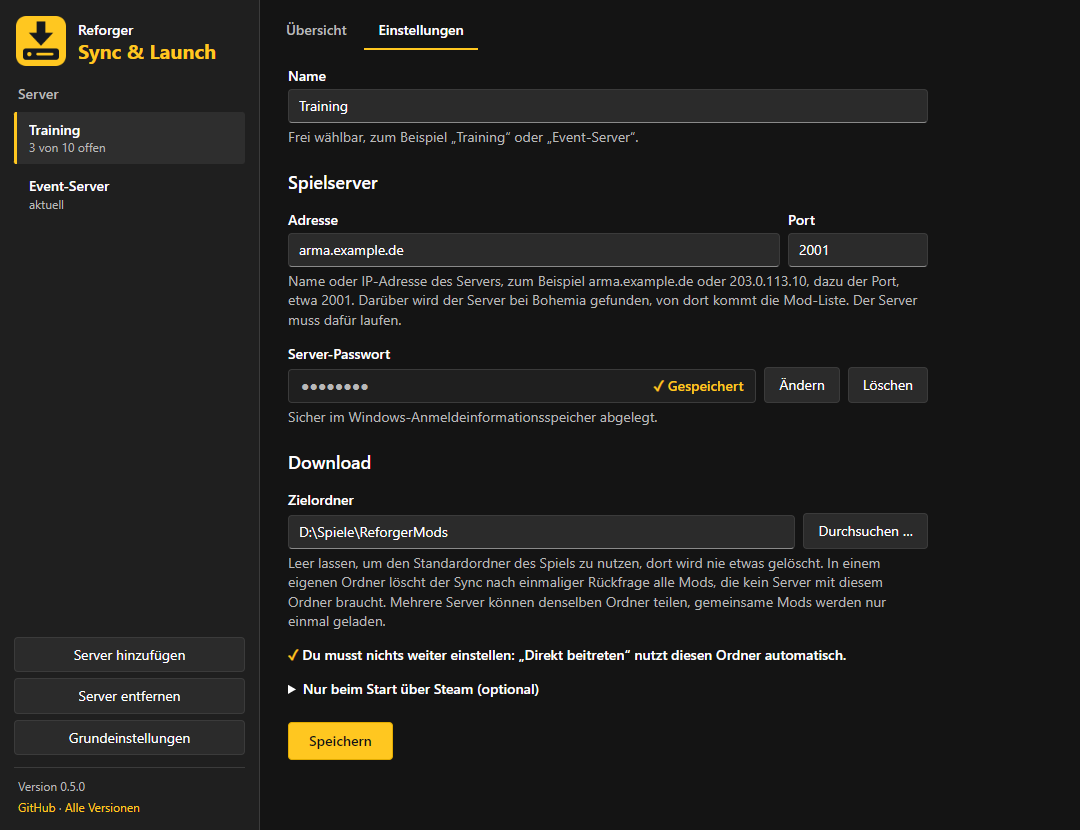
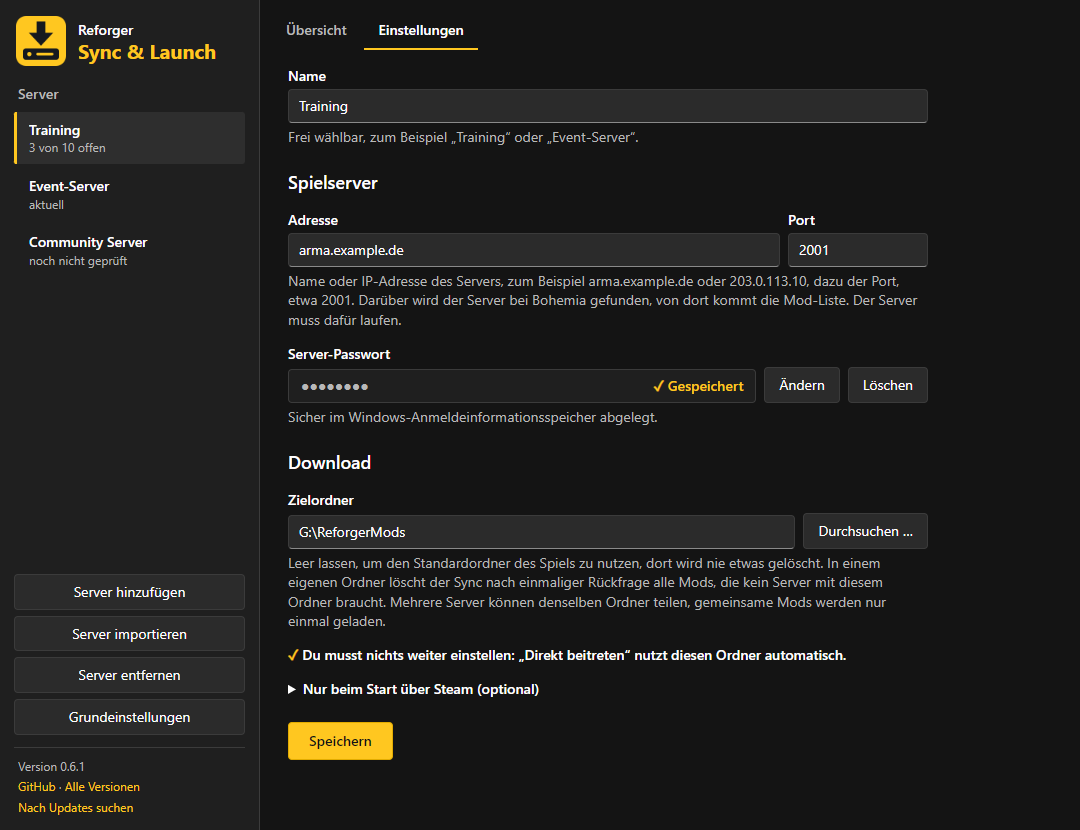
Doku: Screenshots mit Version 0.6.1, Bild zum Update-Hinweis; Übersicht ohne Trenner am Ende, wenn noch keine Liste geholt ist

diff --git a/app/ui/src/main.ts b/app/ui/src/main.ts
@@ -252,7 +252,8 @@ function renderOverview() {
   ui.title.textContent = displayName(profile);
   const address = combinedAddress(profile.draft) ?? "";
   const dir = profile.draft.downloadDir.trim() || "Standardordner des Spiels";
-  ui.hint.textContent = `Adresse: ${address}  ·  Zielordner: ${dir}  ·  ${profile.stand}`;
+  // Ohne geholte Liste gibt es keinen Stand, dann auch keinen Trenner am Ende.
+  ui.hint.textContent = [`Adresse: ${address}`, `Zielordner: ${dir}`, profile.stand].filter((part) => part.trim()).join("  ·  ");
   ui.summary.textContent = profile.summary;
   ui.sync.classList.toggle("attention", (profile.overview?.open ?? 0) > 0);
   ui.progress.style.width = `${Math.min(100, (profile.progressDone / profile.progressTotal) * 100)}%`;

diff --git a/README.md b/README.md
@@ -15,6 +15,7 @@ Beim Beitritt zu einem Server lädt Arma Reforger fehlende Mods erst dann, und d
 - **Direkt beitreten:** Startet das Spiel und verbindet dich mit dem Server.
 - **Mehrere Server verwalten:** Jeder Server hat seine eigene Adresse, sein Passwort und seinen Zielordner. Weitere Server legst du links mit **Server hinzufügen** an.
 - **Server aus ARMM importieren:** Mit einer Datei `armm-sync.json` aus ARMM legst du einen Server per Klick an. Seine Mod-Liste kommt dann direkt aus ARMM: Prüfen geht in Sekunden ohne Spielstart, und laden kannst du auch, wenn der Spielserver gerade aus ist.
+- **Updates per Klick:** Die installierte App meldet neue Versionen selbst und aktualisiert sich nach Rückfrage.
 
 Den Download übernimmt dein installierter Arma-Reforger-Client mit einer kleinen Hilfs-Mod, die dem Paket beiliegt. Das Tool spricht nicht selbst mit dem Bohemia Workshop.
 
@@ -36,6 +37,8 @@ Hast du bisher das ZIP in diesen Ordner entpackt, ersetzt der Installer diese Ve
 Die App ist nicht mit einem Zertifikat signiert, deshalb warnt Windows eventuell beim Start des Installers. Klicke dann auf „Weitere Informationen“ und „Trotzdem ausführen“.
 
 **Aktualisieren:** Die App sucht beim Start nach einer neuen Version. Gibt es eine, steht links unten ein Hinweis. **Jetzt aktualisieren** lädt sie, installiert sie und startet die App neu, Einstellungen, Passwörter und Mods bleiben erhalten. Von Hand geht das über **Nach Updates suchen**. Ein Update wird nur installiert, wenn seine Signatur passt, ein verändertes Paket lehnt die App ab.
+
+![Hinweis auf eine neue Version links unten](.github/screenshots/update.png)
 
 **Ohne Installation (ZIP):** Die ZIP-Datei in einen festen Ordner entpacken, am besten `%LOCALAPPDATA%\Programs\ReforgerSyncLaunch` (in die Adresszeile des Explorers eingeben), und `ReforgerSyncLaunch.exe` starten. Der Ordner `helper` muss neben der EXE bleiben. Nimm keinen Ordner direkt unter `C:\`, etwa `C:\Spiele`: Dort dürfen alle Benutzer des PCs Dateien ändern und könnten die App oder die Hilfs-Mod austauschen. Diese Variante meldet neue Versionen, aktualisiert sich aber nicht selbst. Zum Aktualisieren die App schließen und die neue ZIP-Datei in denselben Ordner entpacken.
 
